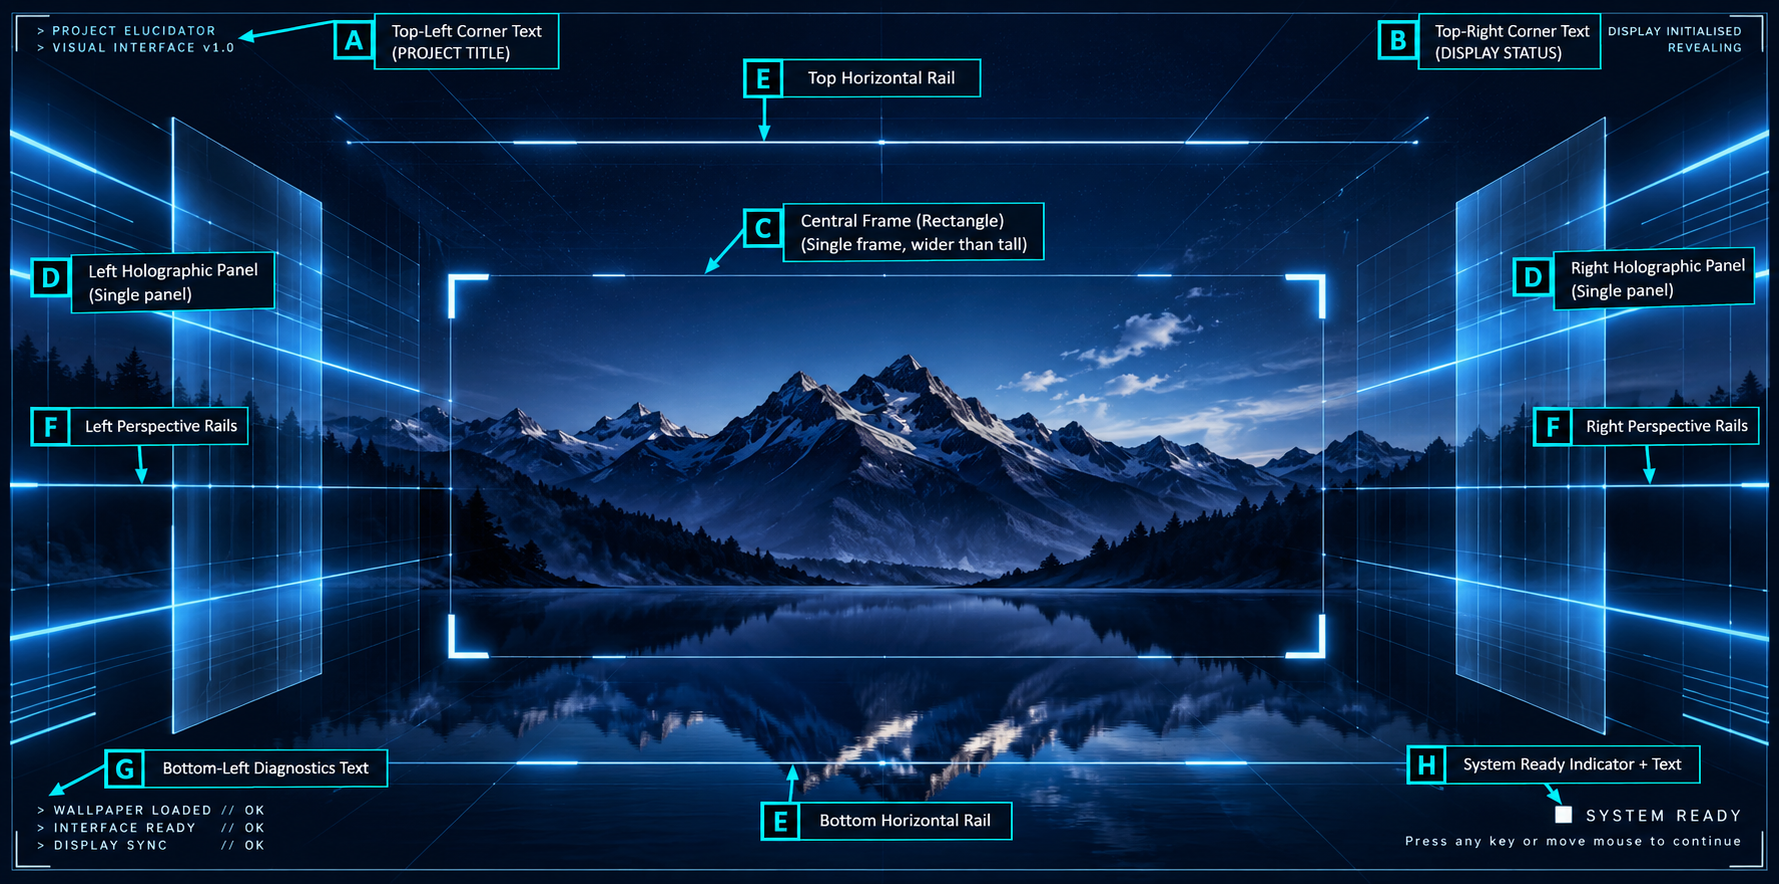
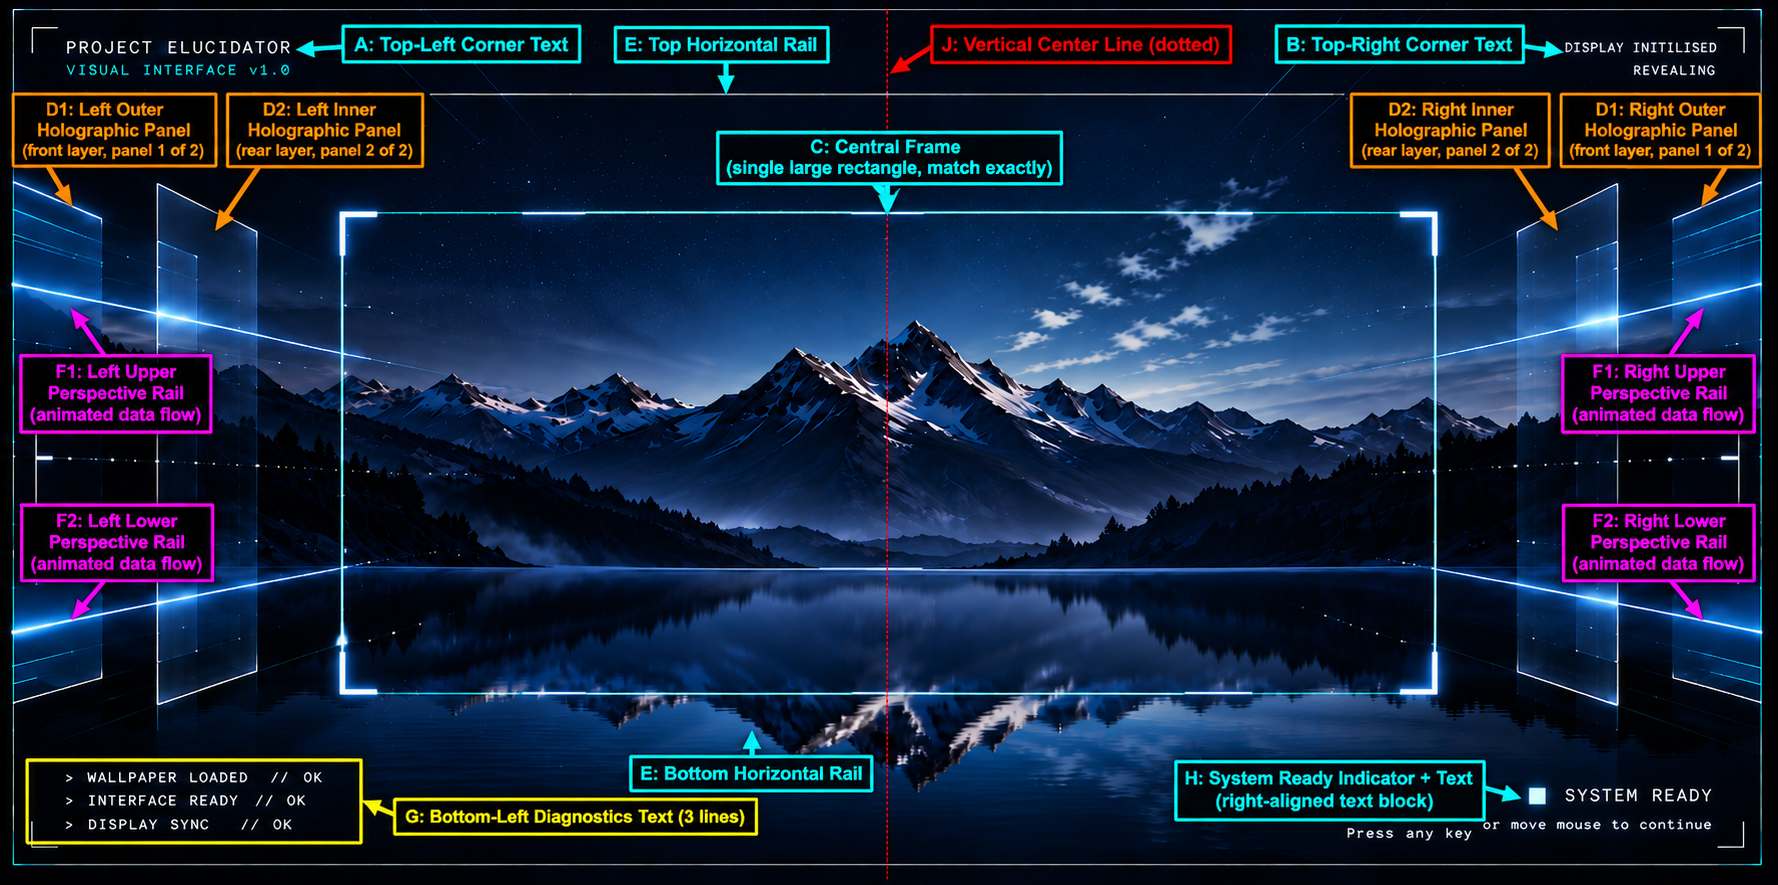
Update standby capture logic and adjust frame dimensions in BootSequence

diff --git a/src/BootSequence.tsx b/src/BootSequence.tsx
@@ -42,7 +42,7 @@ export function BootSequence({ active, standby, short, wallpaperReady, onStandby
     }
     // 7.2 × 7.2 inner aperture / 8.4 × 8.4 outer architecture. At 1920×1080 this
     // reads as a roughly 650 px transparent portal with a visible structural surround.
-    const frameX = 6.25; const frameY = 3.3; const corner = .56
+    const frameX = 6.25; const frameY = 3.06; const corner = .56
     addStandbyLines([
       -frameX, frameY - corner, 0, -frameX, frameY, 0, -frameX + corner, frameY, 0,
       frameX - corner, frameY, 0, frameX, frameY, 0, frameX, frameY - corner, 0,
